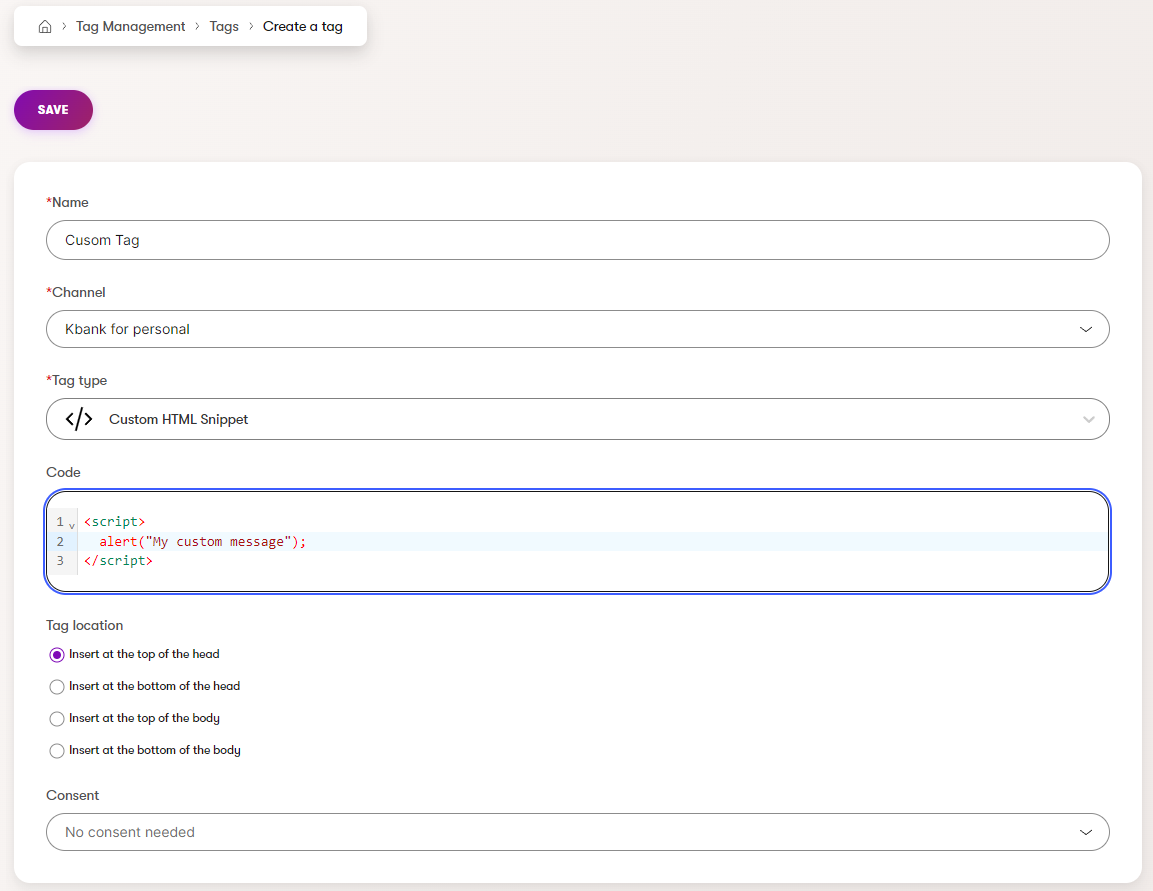
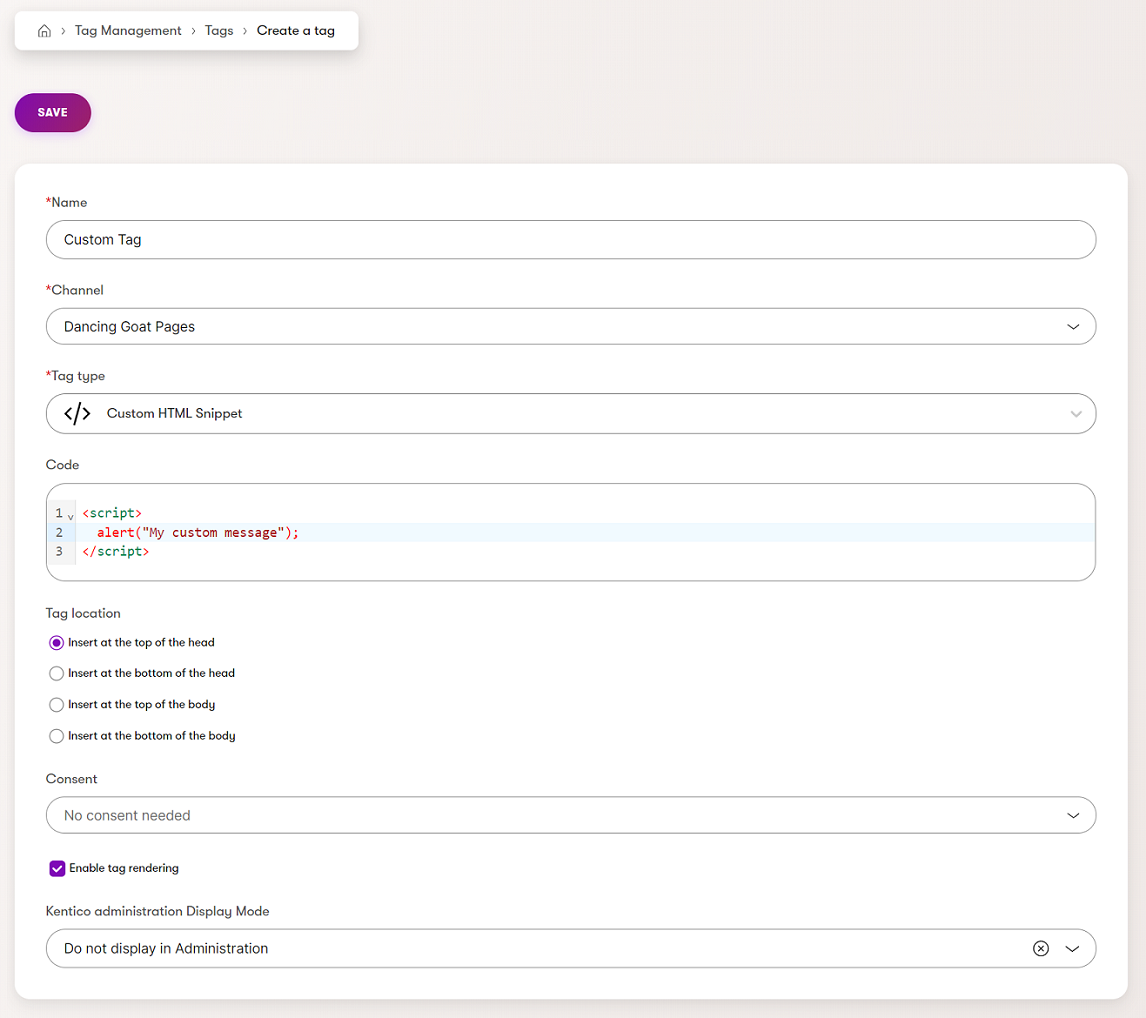
Add enable checkbox to disable tag without deleting
Add: Enable checkbox in tag admin UI to be able to disable tag without deleting

diff --git a/src/Kentico.Xperience.TagManager/Rendering/DefaultChannelCodeSnippetsService.cs b/src/Kentico.Xperience.TagManager/Rendering/DefaultChannelCodeSnippetsService.cs
@@ -66,11 +66,13 @@ internal class DefaultChannelCodeSnippetsService : IChannelCodeSnippetsService
                             $"{ChannelCodeSnippetItemInfo.OBJECT_TYPE.Replace('.', '_')}.{nameof(ChannelCodeSnippetItemInfo.ChannelCodeSnippetItemConsentId)}",
                             nameof(ConsentInfo.ConsentID));
                     })
+                    .WhereTrue(nameof(ChannelCodeSnippetItemInfo.ChannelCodeSnippetItemEnable))
                     .WhereEquals(nameof(WebsiteChannelInfo.WebsiteChannelID), channelContext.WebsiteChannelID)
                     .WhereIn(nameof(ChannelCodeSnippetItemInfo.ChannelCodeSnippetItemType), SnippetFactoryStore.GetRegisteredSnippetFactoryTypes().ToArray())
                     .Columns(nameof(ChannelCodeSnippetItemInfo.ChannelCodeSnippetItemLocation),
                         nameof(ChannelCodeSnippetItemInfo.ChannelCodeSnippetItemCode),
                         nameof(ChannelCodeSnippetItemInfo.ChannelCodeSnippetItemConsentId),
+                        nameof(ChannelCodeSnippetItemInfo.ChannelCodeSnippetItemEnable),
                         nameof(ChannelCodeSnippetItemInfo.ChannelCodeSnippetAdministrationDisplayMode),
                         nameof(ChannelCodeSnippetItemInfo.ChannelCodeSnippetItemIdentifier),
                         nameof(ChannelCodeSnippetItemInfo.ChannelCodeSnippetItemID),

diff --git a/src/Kentico.Xperience.TagManager/Admin/CodeSnippetConfigurationModel.cs b/src/Kentico.Xperience.TagManager/Admin/CodeSnippetConfigurationModel.cs
@@ -38,7 +38,10 @@ internal class CodeSnippetConfigurationModel
     [ObjectIdSelectorComponent(objectType: ConsentInfo.OBJECT_TYPE, Label = "Consent", Order = 6, Placeholder = "No consent needed")]
     public IEnumerable<int> ConsentIDs { get; set; } = [];
 
-    [DropDownComponent(Label = "Kentico administration Display Mode", Options = CodeSnippetExtensions.DisplayModeFormComponentOptions, Order = 7)]
+    [CheckBoxComponent(Label = "Enable tag rendering", Order = 7)]
+    public bool Enable { get; set; } = true;
+
+    [DropDownComponent(Label = "Kentico administration Display Mode", Options = CodeSnippetExtensions.DisplayModeFormComponentOptions, Order = 8)]
     public string DisplayMode { get; set; } = "None";
 
     public void MapToChannelCodeSnippetInfo(ChannelCodeSnippetItemInfo info)
@@ -51,5 +54,6 @@ internal class CodeSnippetConfigurationModel
         info.ChannelCodeSnippetItemIdentifier = TagIdentifier;
         info.ChannelCodeSnippetItemCode = Code;
         info.ChannelCodeSnippetAdministrationDisplayMode = DisplayMode;
+        info.ChannelCodeSnippetItemEnable = Enable;
     }
 }

diff --git a/src/Kentico.Xperience.TagManager/Admin/TagManagerModuleInstaller.cs b/src/Kentico.Xperience.TagManager/Admin/TagManagerModuleInstaller.cs
@@ -81,6 +81,16 @@ internal class TagManagerModuleInstaller(IInfoProvider<ResourceInfo> resourceInf
 
         formItem = new FormFieldInfo
         {
+            Name = nameof(ChannelCodeSnippetItemInfo.ChannelCodeSnippetItemEnable),
+            Visible = false,
+            DataType = FieldDataType.Boolean,
+            Enabled = true,
+            AllowEmpty = false,
+        };
+        formInfo.AddFormItem(formItem);
+
+        formItem = new FormFieldInfo
+        {
             Name = nameof(ChannelCodeSnippetItemInfo.ChannelCodeSnippetItemGuid),
             Visible = false,
             DataType = FieldDataType.Guid,

diff --git a/src/Kentico.Xperience.TagManager/Admin/UIPages/CodeSnippetListingPage.cs b/src/Kentico.Xperience.TagManager/Admin/UIPages/CodeSnippetListingPage.cs
@@ -88,6 +88,10 @@ internal class CodeSnippetListingPage : ListingPage
                         ? LocalizationService.GetString("No consent needed")
                         : allConsents.FirstOrDefault(c => c.ConsentID == (int)value)?.ConsentDisplayName ?? "")
             .AddColumn(
+                nameof(ChannelCodeSnippetItemInfo.ChannelCodeSnippetItemEnable),
+                "Enable",
+                sortable: true)
+            .AddColumn(
                 nameof(ChannelCodeSnippetItemInfo.ChannelCodeSnippetItemLastModified),
                 "Last Modified",
                 defaultSortDirection: SortTypeEnum.Desc,

diff --git a/src/Kentico.Xperience.TagManager/Admin/InfoModels/ChannelCodeSnippetItem/ChannelCodeSnippetItemInfo.generated.cs b/src/Kentico.Xperience.TagManager/Admin/InfoModels/ChannelCodeSnippetItem/ChannelCodeSnippetItemInfo.generated.cs
@@ -162,6 +162,16 @@ public partial class ChannelCodeSnippetItemInfo : AbstractInfo<ChannelCodeSnippe
         set => SetValue(nameof(ChannelCodeSnippetItemConsentId), value);
     }
 
+    /// <summary>
+    /// Channel code snippet consent ID.
+    /// </summary>
+    [DatabaseField]
+    public virtual bool ChannelCodeSnippetItemEnable
+    {
+        get => ValidationHelper.GetBoolean(GetValue(nameof(ChannelCodeSnippetItemEnable)), true);
+        set => SetValue(nameof(ChannelCodeSnippetItemEnable), value);
+    }
+
 
     /// <summary>
     /// Deletes the object using appropriate provider.

diff --git a/src/Kentico.Xperience.TagManager/Admin/UIPages/CodeSnippetEditPage.cs b/src/Kentico.Xperience.TagManager/Admin/UIPages/CodeSnippetEditPage.cs
@@ -46,6 +46,7 @@ internal class CodeSnippetEditPage : ModelEditPage<CodeSnippetConfigurationModel
                 ConsentIDs = info.ChannelCodeSnippetItemConsentId == 0 ? [] : [info.ChannelCodeSnippetItemConsentId],
                 TagIdentifier = info.ChannelCodeSnippetItemIdentifier,
                 Location = info.ChannelCodeSnippetItemLocation,
+                Enable = info.ChannelCodeSnippetItemEnable
             };
 
             return model;

diff --git a/README.md b/README.md
@@ -84,6 +84,7 @@ dotnet add package Kentico.Xperience.TagManager
 
 3. In the administration go to UI application 'Tag Management'.
 4. Create a new record:
+   - Fill in a tag name
    - Select one of the channels.
    - Select whether you want to use Custom Code Snippet or other Snippet type
    - We have prepared some of the most often used types:
@@ -101,7 +102,9 @@ dotnet add package Kentico.Xperience.TagManager
        - Bottom of the head - inserts a script right before the closing head tag.
        - Top of the body - inserts a script immediately after the opening body tag.
        - Bottom of the body - inserts a script right before the closing body tag.
+   - Select tag location within the rendered page HTML
    - Fill in a consent if required.
+   - Check 'Enable tag rendering' to activate the tag or uncheck to deactivate
    - Select whether you want to display tags in the Xperience administration preview or Page Builder, or both. This option defaults to None.
 5. During rendering the livesite page, the Tag manager module automatically adds custom code snippets with accepted consents to defined locations.
 6. To dynamically update the rendered code snippets, for example if a consent is accepted, call javascript function `window.xperience.tagManager.updateCodeSnippets()`.
